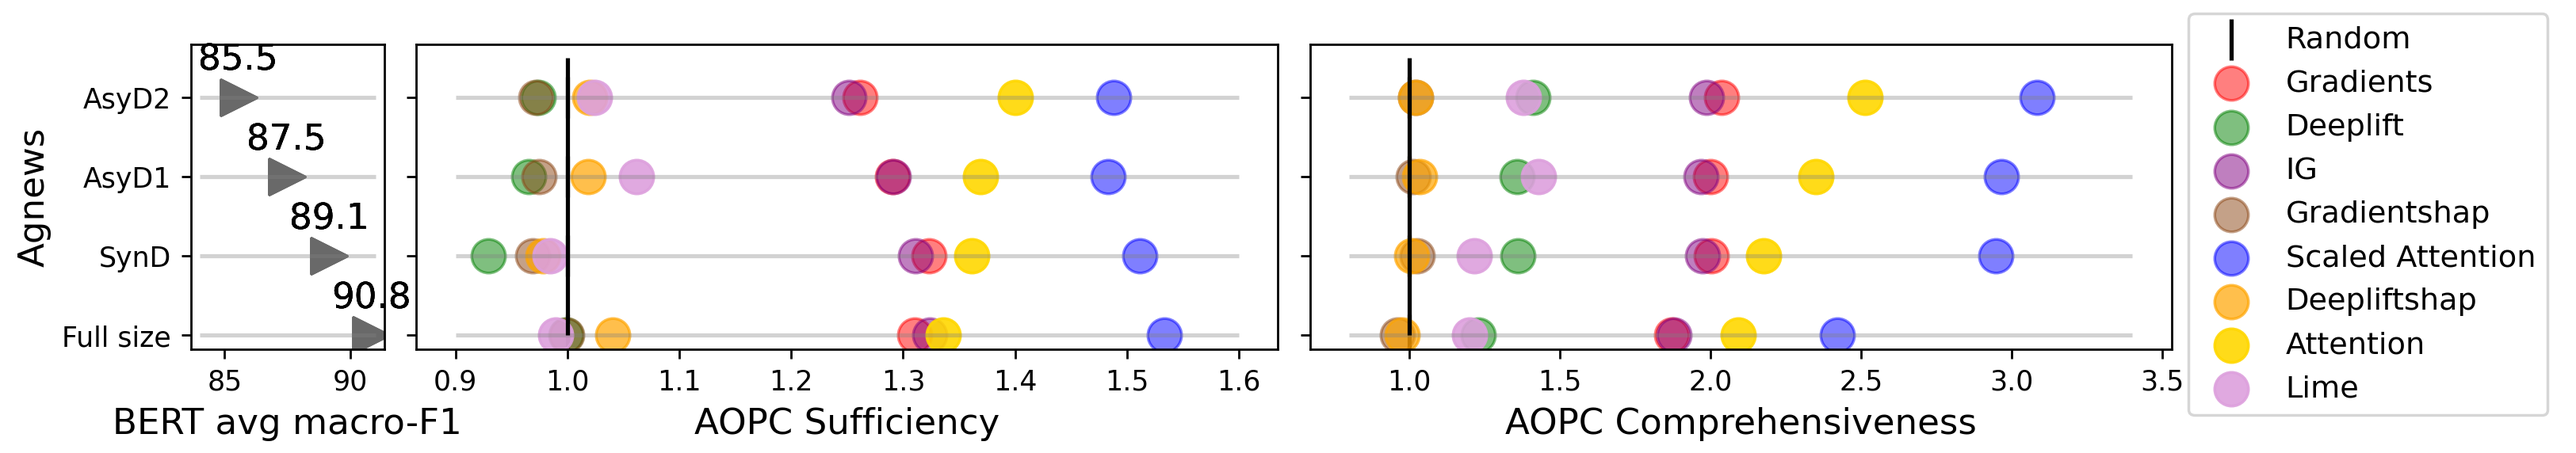
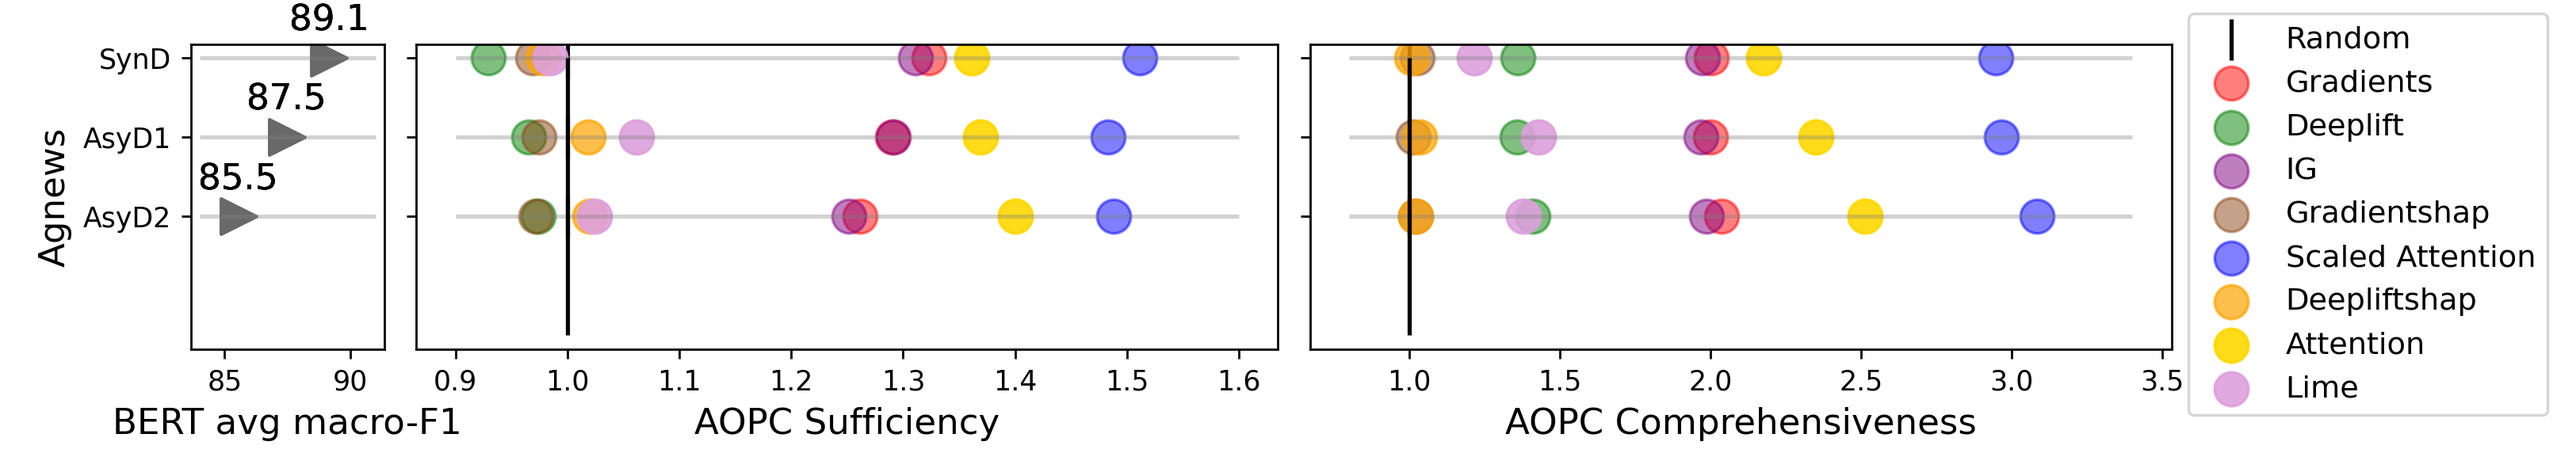
m

diff --git a/saved_everything/lollipop_ration.py b/saved_everything/lollipop_ration.py
@@ -24,13 +24,13 @@ df['mean-f1'] = df['mean-f1']*100
 
 print(df)
 
-data = 'AmazPantry'
+data = 'Agnews'
 df = df[df['Task'].str.contains(str(data))]
 print(df)
 suff = df[df['Rationales_metrics'].str.contains('AOPC_sufficiency')]
 comp = df[df['Rationales_metrics'].str.contains('AOPC_comprehensiveness')]
 my_range=suff['Domain']
-print(df)
+print(my_range)
 
 ALPHA = 0.5
 SIZE = 150
@@ -92,7 +92,6 @@ else:
 
 
 fig, ax = plt.subplots(1, 3, gridspec_kw={'width_ratios': [0.9, 4, 4]}, sharey='all', figsize=(13,2.3))
-temporal_order = ["Full size", "SynD", "AsyD1", "AsyD2"]
 
 
 # Set number of ticks for x-axis
@@ -116,6 +115,7 @@ if data == 'Amazdigimu':
     ax[0].set_ylabel('AmazDigiMu', fontsize=xlabel_size)
 else:
     ax[0].set_ylabel(str(data), fontsize=xlabel_size)
+ax[0].invert_yaxis()
 #ax[0].set_yticklabels(my_range, fontsize=13)
 
 plt.plot()
@@ -135,6 +135,7 @@ ax[1].scatter(suff['deepliftshap'], my_range, color='orange', alpha=ALPHA+0.2, l
 ax[1].scatter(suff['attention'], my_range, color='gold', alpha=ALPHA+0.4, label='Attention', s=SIZE)
 ax[1].scatter(suff['lime'], my_range, color='plum', alpha=ALPHA+0.4, label='Lime', s=SIZE)
 ax[1].set_xlabel('AOPC Sufficiency',fontsize=xlabel_size)
+ax[1].invert_yaxis()
 plt.plot()
 
 
@@ -152,6 +153,7 @@ ax[2].scatter(comp['deepliftshap'], my_range, color='orange', alpha=ALPHA+0.2, l
 ax[2].scatter(comp['attention'], my_range, color='gold', alpha= ALPHA+0.4, label='Attention', s=SIZE)
 ax[2].scatter(comp['lime'], my_range, color='plum', alpha=ALPHA+0.4, label='Lime', s=SIZE)
 ax[2].set_xlabel('AOPC Comprehensiveness',fontsize=xlabel_size)
+ax[2].invert_yaxis()
 plt.plot()
 
 

diff --git a/save_everything.py b/save_everything.py
@@ -136,7 +136,7 @@ if args.save_for_bert:
         OOD2 = OOD2[['mean-acc', 'std-acc', 'mean-f1', 'std-f1', 'mean-ece', 'std-ece']].iloc[0]
 
     OOD12 = (OOD1 + OOD2)/2
-    Full_data['Domain'] = 'Full size'
+    Full_data['Domain'] = 'Full'
     InDomain['Domain'] = 'SynD'
     OOD1['Domain'] = 'AsyD1'
     OOD2['Domain'] = 'AsyD2'
@@ -396,7 +396,7 @@ if args.save_for_bert:
         OOD2 = OOD2[['mean-acc', 'std-acc', 'mean-f1', 'std-f1', 'mean-ece', 'std-ece']].iloc[0]
 
     OOD12 = (OOD1 + OOD2)/2
-    Full_data['Domain'] = 'Full size'
+    Full_data['Domain'] = 'Full'
     InDomain['Domain'] = 'SynD'
     OOD1['Domain'] = 'AsyD1'
     OOD2['Domain'] = 'AsyD2'
@@ -467,7 +467,7 @@ if args.save_posthoc:
                 
 
         full = pd.read_json(full_path)
-        full_df = json2df(full, 'Full size')
+        full_df = json2df(full, 'Full')
         indomain = pd.read_json(indomain_path)
         df = json2df(indomain, 'SynD')
         OOD1 = pd.read_json(ood1_path)

diff --git a/saved_everything/post_analysis.py b/saved_everything/post_analysis.py
@@ -107,7 +107,7 @@ for name in task_list:
         merge['Task'] = str(name)
     else:
         merge['Task'] = str(name).capitalize()
-    #print(merge)
+    print(merge)
     merge.to_csv(str(name)+ '/posthoc_and_predictive.csv')
     bigtable_list.append(merge)
 
